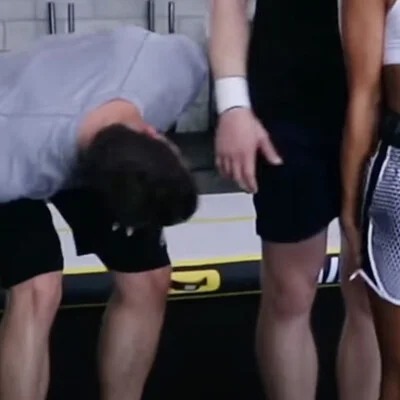
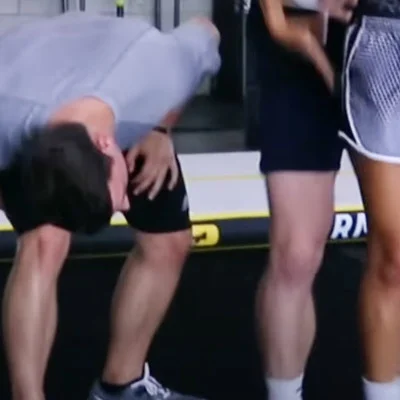
Update

diff --git a/content/csg.md b/content/csg.md
@@ -300,7 +300,7 @@ Snapshot collection of 178 [cheer](@/cns.md) stunting skills (29 still missing).
 {{ image(path="msh.webp", desc="Arm switch", link="https://www.youtube.com/shorts/7ppho3fTrLU") }}
 {{ image(path="ntg.webp", desc="No tag", link="https://youtu.be/Be-Sv_3gx5A?t=129") }}
 {{ image(path="nlk.webp", desc="No look", link="https://youtu.be/ApTsZwIDYLU?t=425") }}
-{{ image(path="nsp.webp", desc="No step", link="https://youtu.be/HMBSWEz2l24?t=382") }}
+{{ image(path="nsp.webp", desc="No step", link="https://youtu.be/HMBSWEz2l24?t=463") }}
 {{ image(path="wcs.webp", desc="With claps", link="https://youtu.be/kho1vUX_cpg?t=49") }}
 {{ image(path="bbs.webp", desc="Above brows", link="https://youtu.be/Be-Sv_3gx5A?t=894") }}
 {{ image(path="wws.webp", desc="With weights", link="https://youtu.be/ND_VqTi_790?t=980") }}
